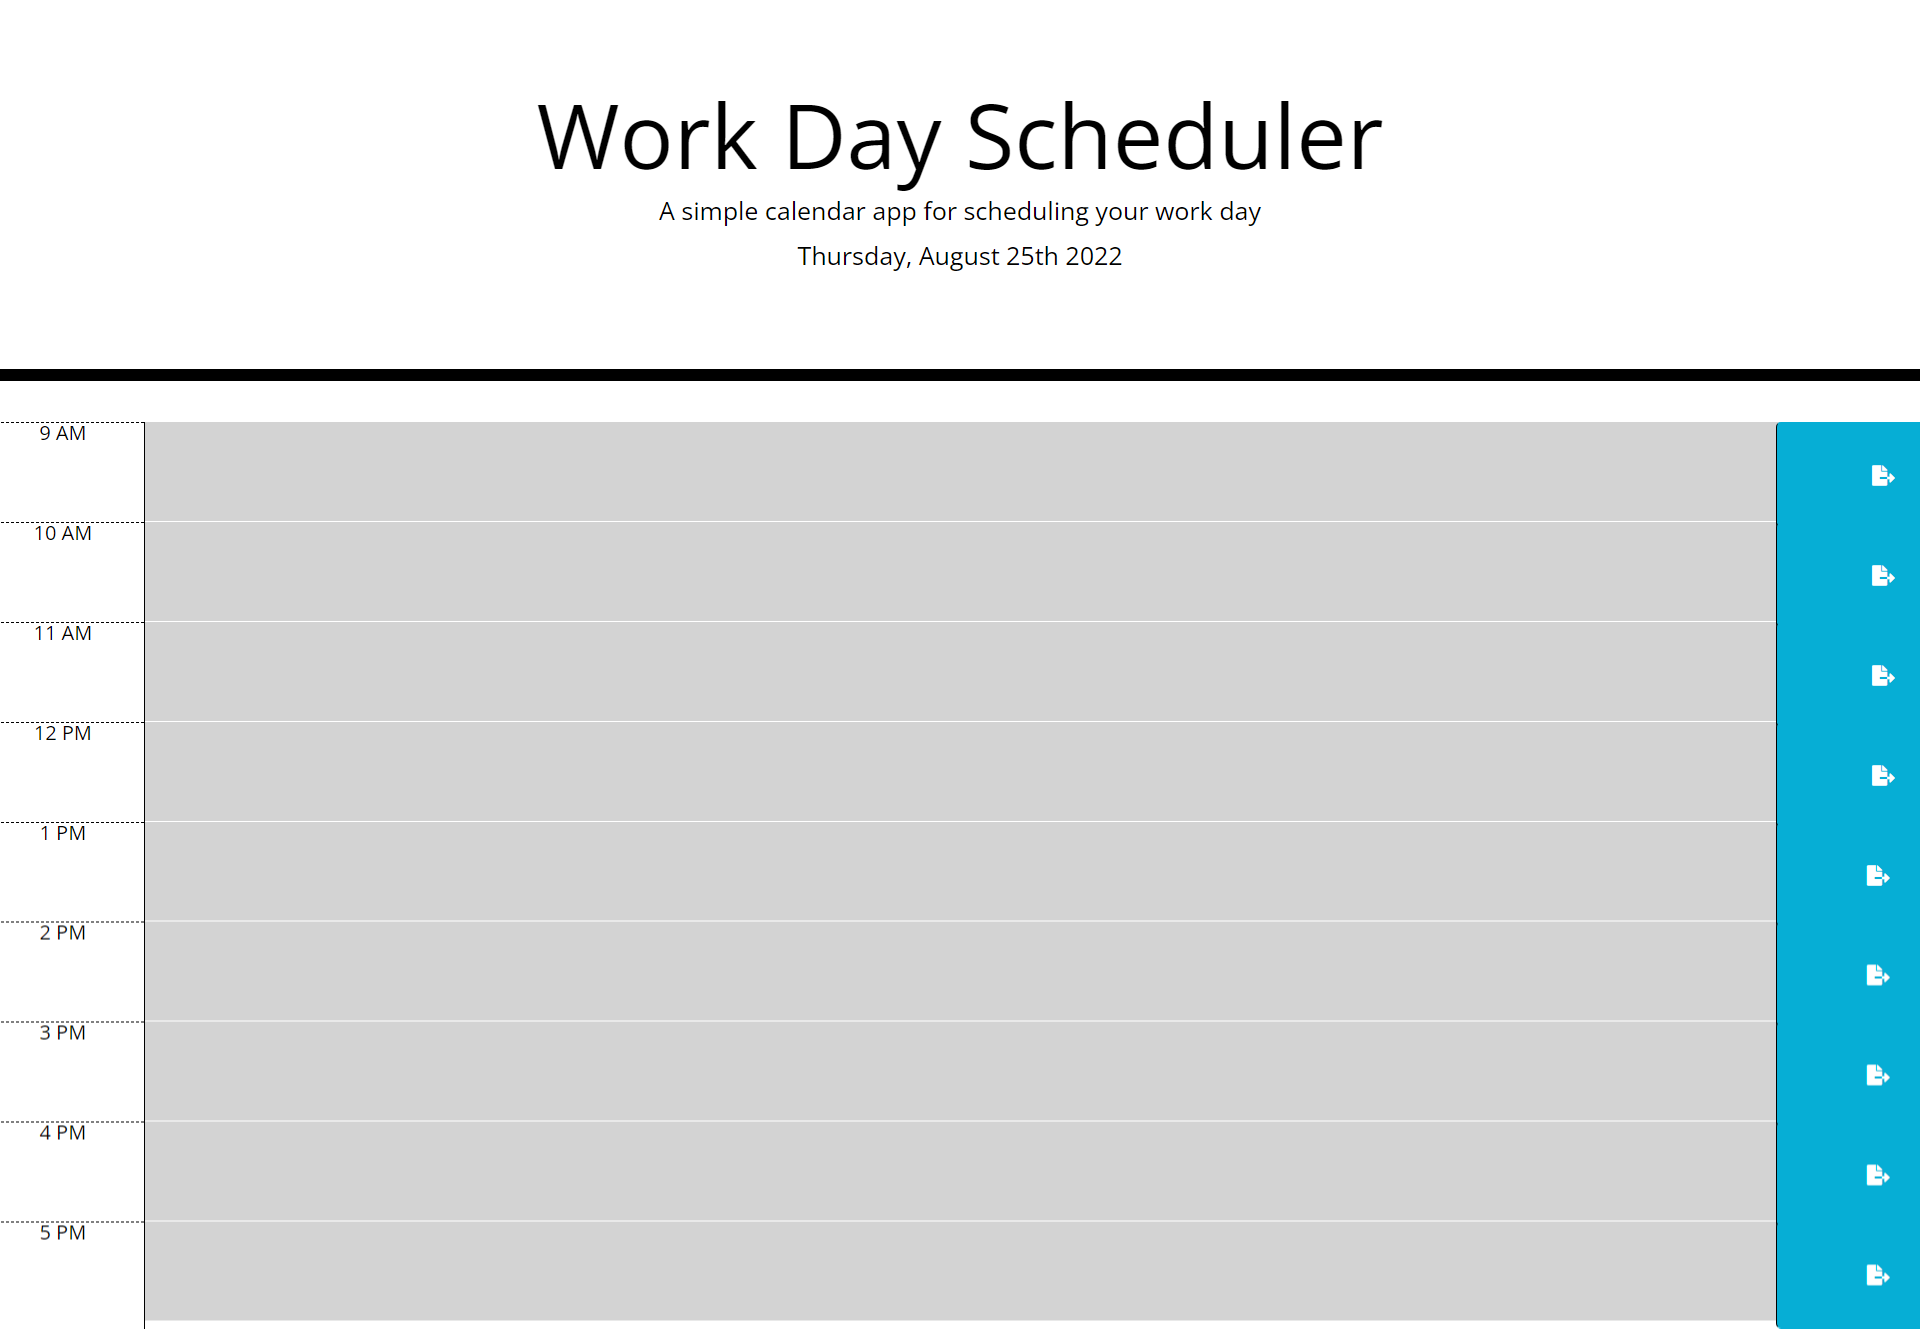
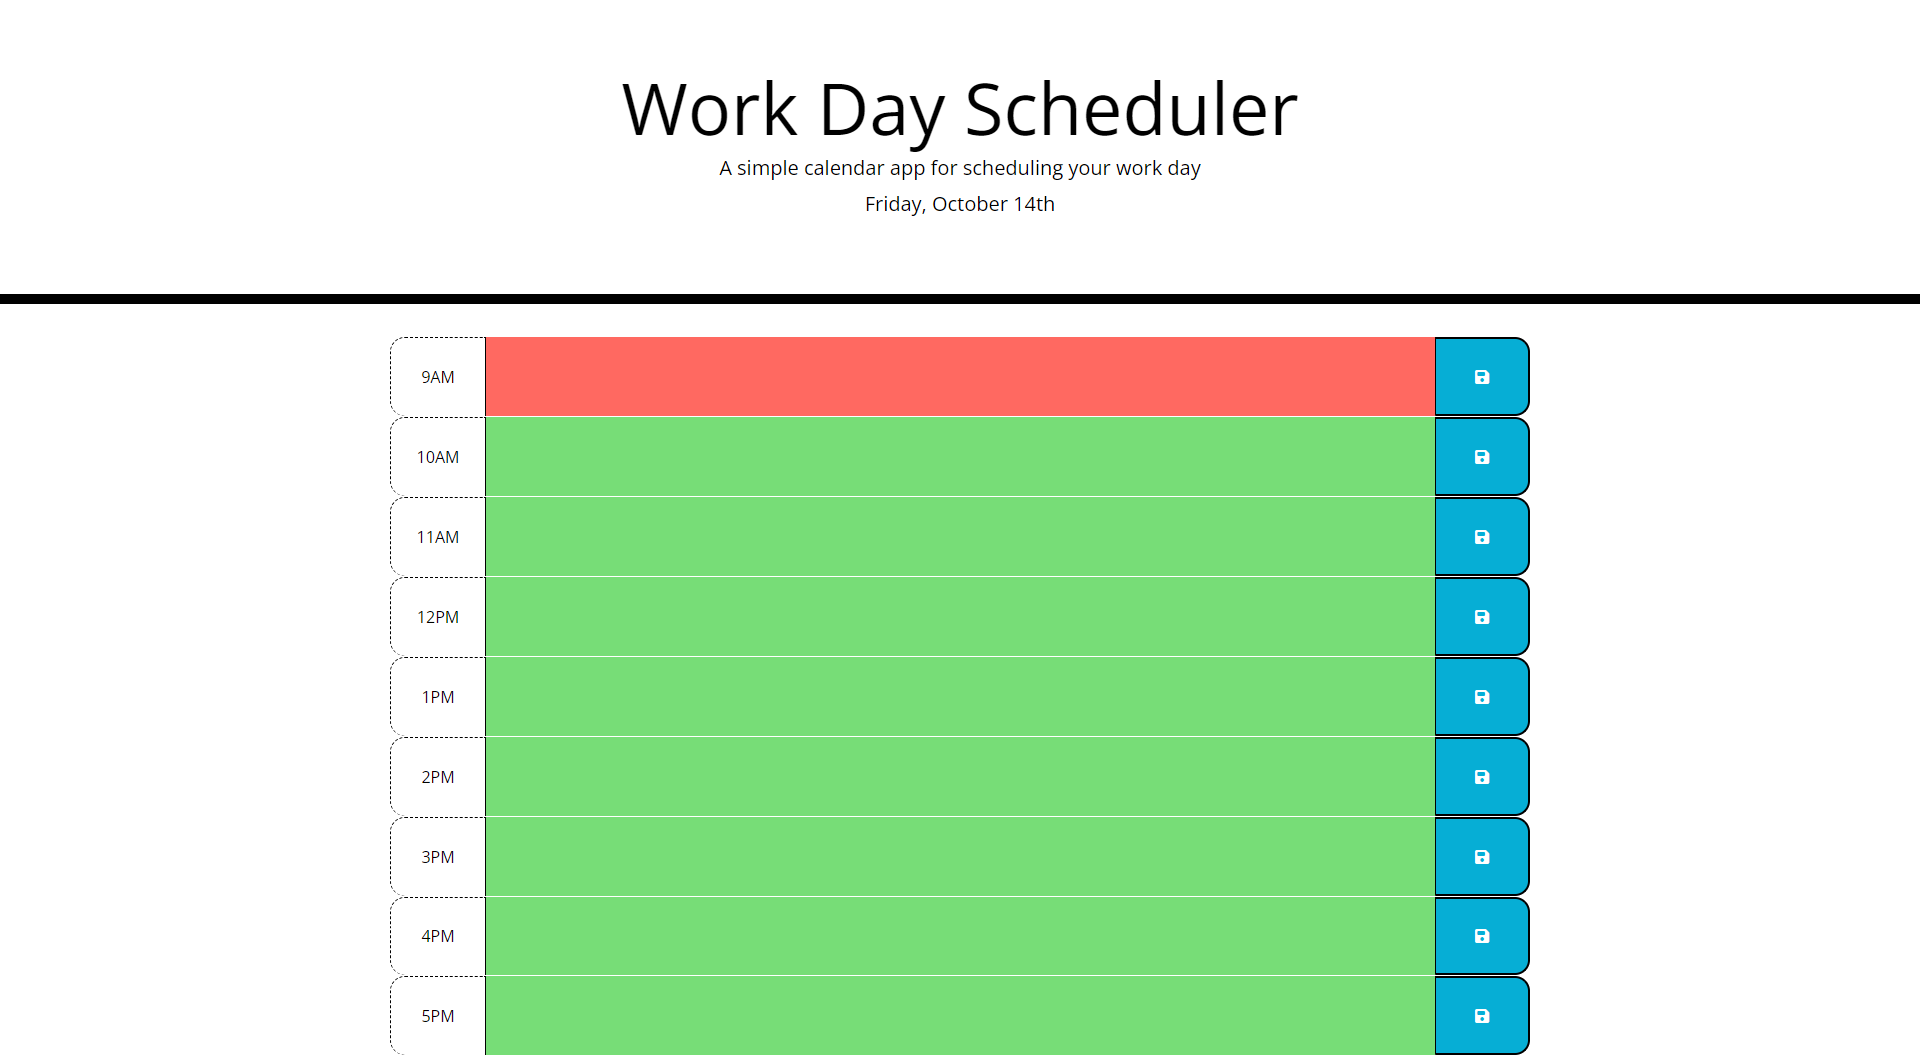
fixed path issues

diff --git a/assets/css/style.css b/assets/css/style.css
@@ -1,72 +1,74 @@
 body {
-    font-family: 'Open Sans', sans-serif;
-    font-size: 16px;
-    line-height: 1;
-  }
-  
-  textarea {
-    background: transparent;
-    border: none;
-    resize: none;
-    color: #000000;
-    border-left: 1px solid black;
-    padding: 10px;
-  }
-  
-  .jumbotron {
-    text-align: center;
-    background-color: transparent;
-    color: black;
-    border-radius: 0;
-    border-bottom: 10px solid black;
-  }
-  
-  .description {
-    white-space: pre-wrap;
-  }
-  
-  .time-block {
-    text-align: center;
-    border-radius: 15px;
-  }
-  
-  .row {
-    white-space: pre-wrap;
-    height: 80px;
-    border-top: 1px solid white;
-  }
-  
-  .hour {
-    background-color: #ffffff;
-    color: #000000;
-    border-top: 1px dashed #000000;
-  }
-  
-  .past {
-    background-color: #d3d3d3;
-    color: white;
-  }
-  
-  .present {
-    background-color: #ff6961;
-    color: white;
-  }
-  
-  .future {
-    background-color: #77dd77;
-    color: white;
-  }
-  
-  .saveBtn {
-    border-left: 1px solid black;
-    border-top-right-radius: 15px;
-    border-bottom-right-radius: 15px;
-    background-color: #06aed5;
-    color: white;
-  }
-  
-  .saveBtn i:hover {
-    font-size: 20px;
-    transition: all 0.3s ease-in-out;
-  }
-  
+  font-family: "Open Sans", sans-serif;
+  font-size: 16px;
+  line-height: 1;
+}
+
+textarea {
+  background: transparent;
+  border: none;
+  resize: none;
+  color: #000000;
+  border-left: 1px solid black;
+  padding: 10px;
+}
+
+.jumbotron {
+  text-align: center;
+  background-color: transparent;
+  color: black;
+  border-radius: 0;
+  border-bottom: 10px solid black;
+}
+
+.description {
+  white-space: pre-wrap;
+}
+
+.time-block {
+  text-align: center;
+  border-radius: 15px;
+}
+
+.row {
+  white-space: pre-wrap;
+  height: 80px;
+  border-top: 1px solid white;
+}
+
+.hour {
+  background-color: #ffffff;
+  color: #000000;
+  border-top: 1px dashed #000000;
+  border-left: 1px dashed #000000;
+  border-top-left-radius: 15px;
+  border-bottom-left-radius: 15px;
+}
+
+.past {
+  background-color: #d3d3d3;
+  color: black;
+}
+
+.present {
+  background-color: #ff6961;
+  color: white;
+}
+
+.future {
+  background-color: #77dd77;
+  color: black;
+}
+
+.saveBtn {
+  border-left: 1px solid black;
+  border-top-right-radius: 15px;
+  border-bottom-right-radius: 15px;
+  background-color: #06aed5;
+  color: white;
+}
+
+.saveBtn i:hover {
+  font-size: 20px;
+  transition: all 0.3s ease-in-out;
+}

diff --git a/index.html b/index.html
@@ -19,7 +19,7 @@
       href="https://fonts.googleapis.com/css?family=Open+Sans&display=swap"
       rel="stylesheet"
     />
-    <link rel="stylesheet" href="style.css" />
+    <link rel="stylesheet" href="./assets/css/style.css" />
     <title>Work Day Scheduler</title>
   </head>
 

diff --git a/assets/js/script.js b/assets/js/script.js
@@ -1,7 +1,7 @@
 const LS_KEY = "schedules";
 
 function updateDateInfo() {
-  let today = moment().format("dddd, MMMM Do");
+  let today = moment().format("MMMM Do YYYY");
   $("#currentDay").text(today);
 }
 
